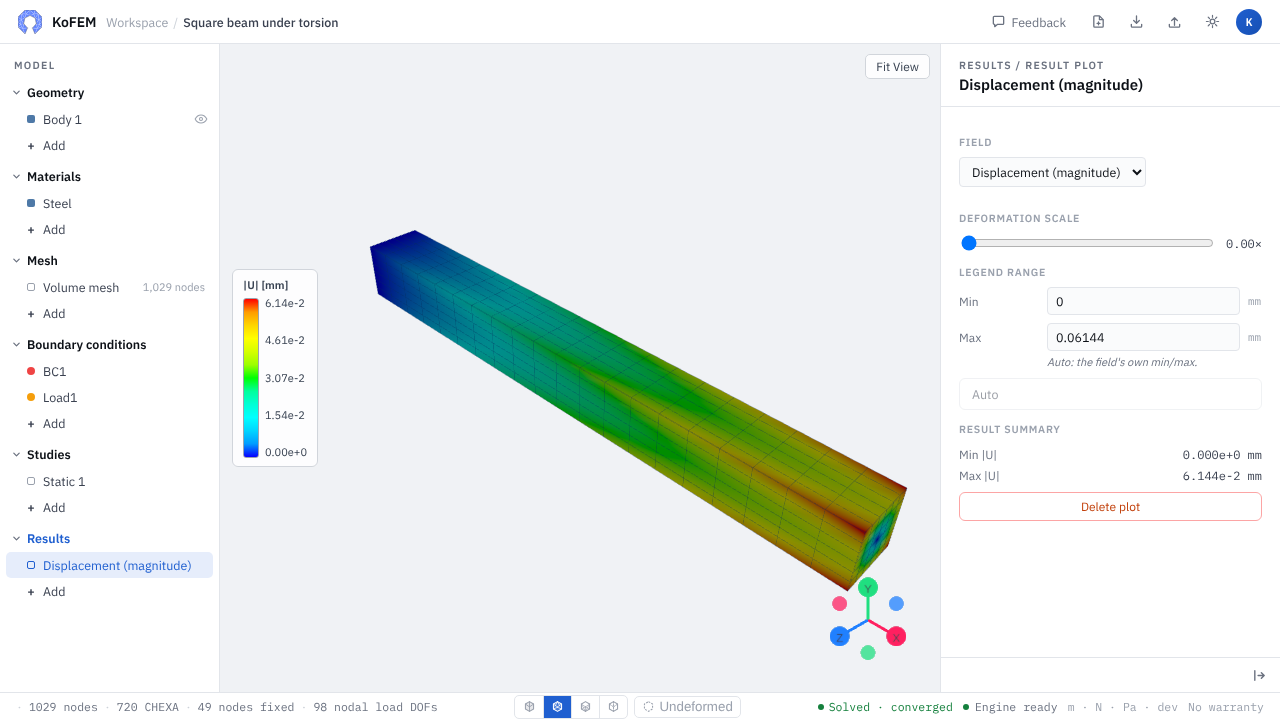
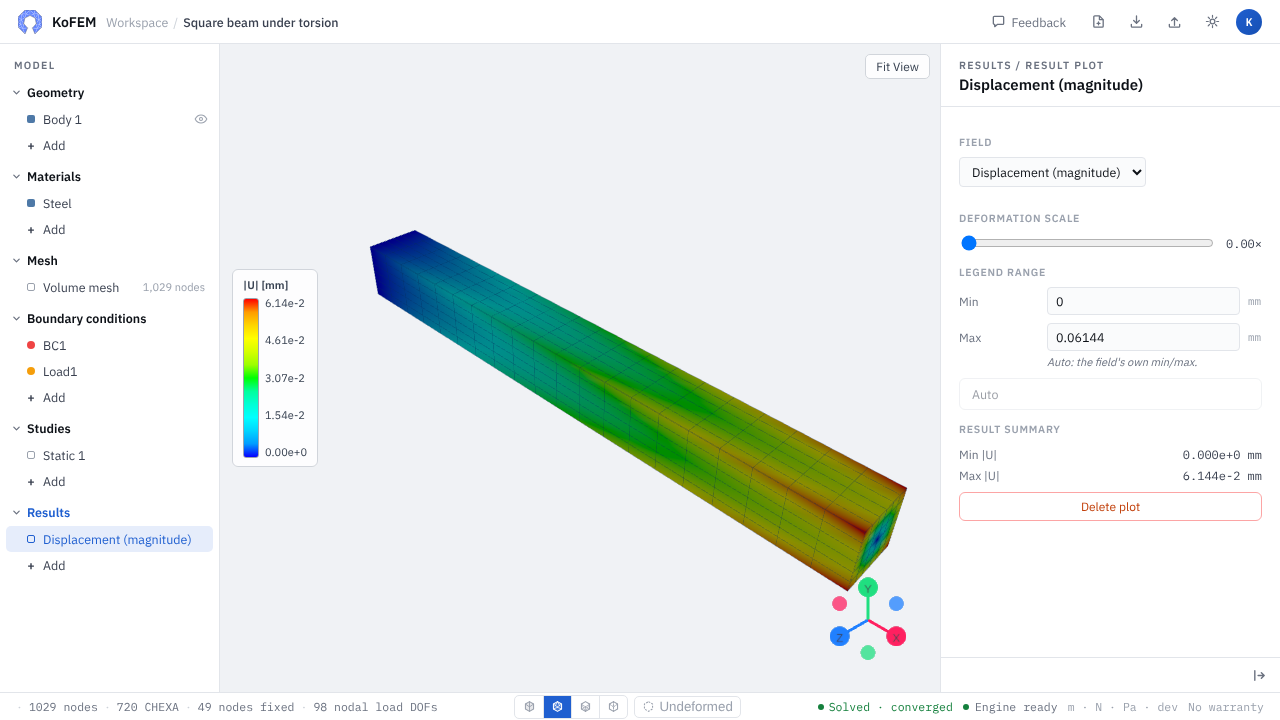
Number bodies 1, 2, … again after a geometry edit; test fixes
A Boolean that fuses bodies kept the survivors' body numbers, leaving
gaps (Body 1, Body 3). Bodies are now renumbered in the order of their
first solid after every edit that maps solids to their sources.

The Boolean renumbering test now promotes the split region to a body
first. The Keep solid optimize test waits for the final density: the
threshold control already shows during the live preview.

Claude-Session: https://claude.ai/code/session_01G8ZFvukTjCcs1Rs2qyvLTQ

Changed region(s): [[0.0, 0.7028, 0.1875, 0.825], [0.0, 0.4278, 0.125, 0.6722]]

diff --git a/web/tests/optimize-panel.spec.ts b/web/tests/optimize-panel.spec.ts
@@ -284,18 +284,25 @@ test("Optimize panel: a Keep solid region stays at full density", async ({
     timeout: 90_000,
   });
 
-  // All-hex model: the design order is the store order.
-  const density = await page.evaluate(() =>
-    Array.from(
-      (
-        window as unknown as {
-          __kofemStore: {
-            getState(): { densityResult: { density: Float64Array } | null };
-          };
-        }
-      ).__kofemStore.getState().densityResult?.density ?? [],
-    ),
-  );
+  // All-hex model: the design order is the store order. The threshold control
+  // already shows the live density while the run goes on, so wait for the
+  // final result in the store.
+  const readDensity = () =>
+    page.evaluate(() =>
+      Array.from(
+        (
+          window as unknown as {
+            __kofemStore: {
+              getState(): { densityResult: { density: Float64Array } | null };
+            };
+          }
+        ).__kofemStore.getState().densityResult?.density ?? [],
+      ),
+    );
+  await expect
+    .poll(async () => (await readDensity()).length, { timeout: 90_000 })
+    .toBe(kept.length);
+  const density = await readDensity();
   expect(density.length).toBe(kept.length);
   expect(density.filter((_, i) => kept[i]).every((d) => d === 1)).toBe(true);
   expect(density.filter((_, i) => !kept[i]).some((d) => d < 1)).toBe(true);

diff --git a/web/tests/boolean-geometry.spec.ts b/web/tests/boolean-geometry.spec.ts
@@ -86,6 +86,11 @@ test("bodies keep their settings when a Boolean renumbers them", async ({
   await expect
     .poll(async () => (await geometryCounts(page)).bodies, { timeout: 60_000 })
     .toBe(3);
+  // The split made two regions of Body 2 (KOF-257); promote the second to
+  // Body 3 of its own.
+  await page.getByTestId("tree-region-3").click();
+  await page.getByTestId("region-promote-3").click();
+  await expect(page.getByTestId("tree-body-3")).toBeVisible();
 
   // Body 3 gets a material of its own and is suppressed.
   await addMaterial(page);
@@ -134,4 +139,7 @@ test("bodies keep their settings when a Boolean renumbers them", async ({
     { id: 1, materialId: 1, suppressed: false },
     { id: 2, materialId: 2, suppressed: true },
   ]);
+  // The bodies are numbered 1, 2 again — no gap where the fused one was.
+  await expect(page.getByTestId("tree-body-2")).toBeVisible();
+  await expect(page.getByTestId("tree-body-3")).toHaveCount(0);
 });

diff --git a/web/src/store/geometrySlice.ts b/web/src/store/geometrySlice.ts
@@ -693,6 +693,13 @@ export const createGeometrySlice: SliceCreator<GeometrySlice> = (set) => ({
             extraPiece && piecesAs === "bodies" ? nextBody++ : bodyOf(source);
           return { ...source, id: j + 1, body };
         });
+        // A Boolean that fuses bodies leaves gaps in the numbering: number the
+        // bodies 1, 2, … again, in the order of their first solid.
+        const renumber = new Map<number, number>();
+        for (const p of s.properties)
+          if (!renumber.has(bodyOf(p)))
+            renumber.set(bodyOf(p), renumber.size + 1);
+        for (const p of s.properties) p.body = renumber.get(bodyOf(p));
       } else
         s.properties =
           cadBodies.length === Math.max(1, bodyCount)
